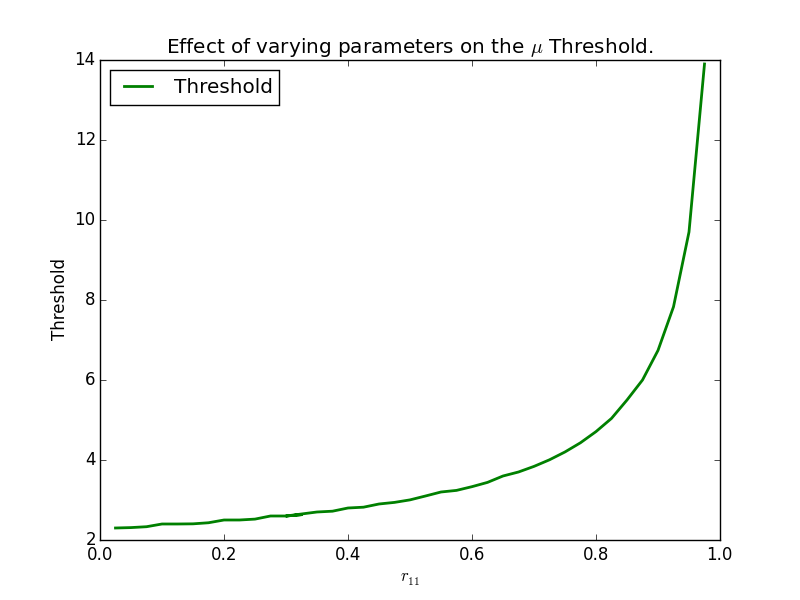
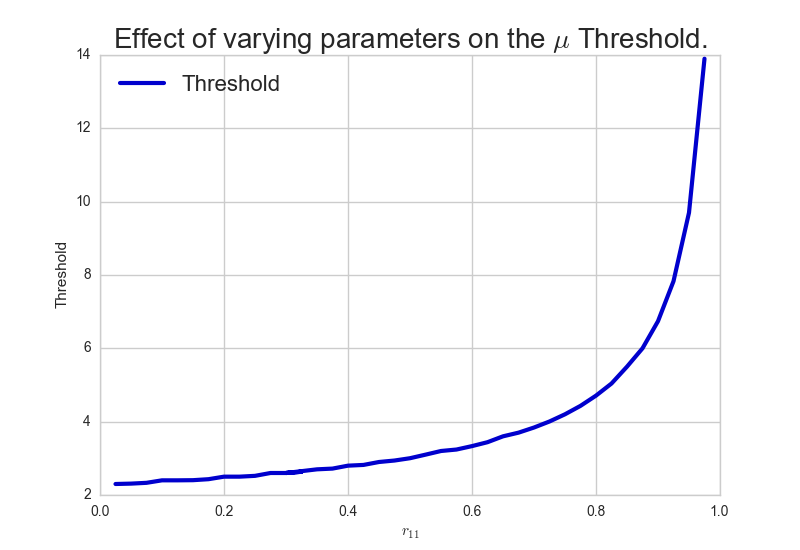
threshold plots in seaborn

diff --git a/draw_graph_threshold.py b/draw_graph_threshold.py
@@ -1,5 +1,5 @@
 """
-Usage: draw_graph_threshold.py <dir_name> <var> <legend_loc>
+Usage: draw_graph_threshold.py <dir_name> <var> <legend_loc> <line_colour>
 
 Arguments
     dir_name    : name of the directory from which to read in data files
@@ -18,12 +18,15 @@ import matplotlib.pyplot as plt
 from csv import reader
 import numpy as np
 import pylab
+import seaborn as sns
+sns.set(style="whitegrid")
 
 
 arguments = docopt.docopt(__doc__)
 dirname = arguments['<dir_name>']
 var = str(arguments['<var>'])
 leg_loc = str(arguments['<legend_loc>'])
+line_colour = str(arguments['<line_colour>'])
 
 root = os.getcwd()
 directory = os.path.join(root, dirname)
@@ -40,7 +43,7 @@ parameter_file.close()
 
 fig, ax = plt.subplots()
 
-plt.plot(threshold_results[1], threshold_results[0], 'g', linewidth=2, label='Threshold')
+plt.plot(threshold_results[1], threshold_results[0], line_colour, linewidth=3, label='Threshold')
 
 if var[0] == 'L':
     ax.set_xlabel(r'$\Lambda_{'+var[1:]+'}$')
@@ -54,10 +57,10 @@ if var[0] == 'r':
     ax.set_xlabel(r'$r_{'+var[1:]+'}$')
 
 ax.set_ylabel('Threshold')
-ax.set_title('Effect of varying parameters on the ' + r'$\mu$' + ' Threshold.')
+ax.set_title('Effect of varying parameters on the ' + r'$\mu$' + ' Threshold.', fontsize=20)
 
 if leg_loc == 'l':
-    plt.legend(loc=2)
+    plt.legend(loc=2, prop={'size':16})
 if leg_loc == 'r':
-    plt.legend(loc=1)
+    plt.legend(loc=1, prop={'size':16})
 plt.show()
